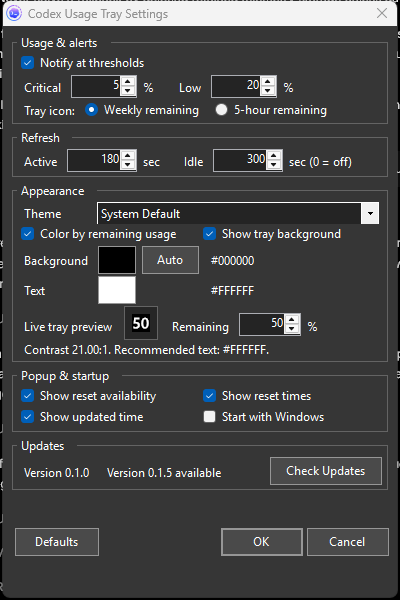
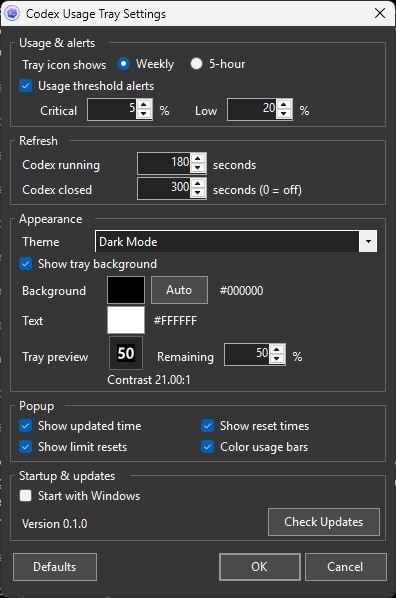
docs: refresh readme screenshots

Changed region(s): [[0.0, 0.0, 1.0, 1.0], [0.2424, 0.903, 0.2727, 0.9331]]

diff --git a/README.md b/README.md
@@ -2,7 +2,9 @@
 
 Codex Usage Tray is a Windows tray utility for monitoring the usage limits of the account signed in to the Codex CLI. The tray icon shows the selected remaining-usage percentage, and a left-click opens a compact popup with the available weekly and 5-hour remaining usage, last update time, and reset timing.
 
-![Codex Usage tray popup with expanded details](docs/images/tray-usage-details.png)
+![Codex Usage tray popup showing 100% weekly and 5-hour limits with expanded reset details](docs/images/tray-usage-details.png)
+
+_Usage values and reset dates shown above are sample data._
 
 ## Requirements
 
@@ -39,7 +41,7 @@ The related Settings options can hide reset availability, reset times, or last-u
 - Open Settings from the popup gear or tray menu. Changes are saved only when **OK** is selected and immediately update the icon, popup, notifications, startup behavior, and refresh schedule as applicable.
 - Settings also provides theme and tray appearance controls, threshold notifications, popup visibility options, Windows startup, and update checks.
 
-![Codex Usage Tray settings](docs/images/settings.png)
+![Codex Usage Tray settings with grouped usage, refresh, appearance, popup, and update controls](docs/images/settings.png)
 
 ## Troubleshooting
 
